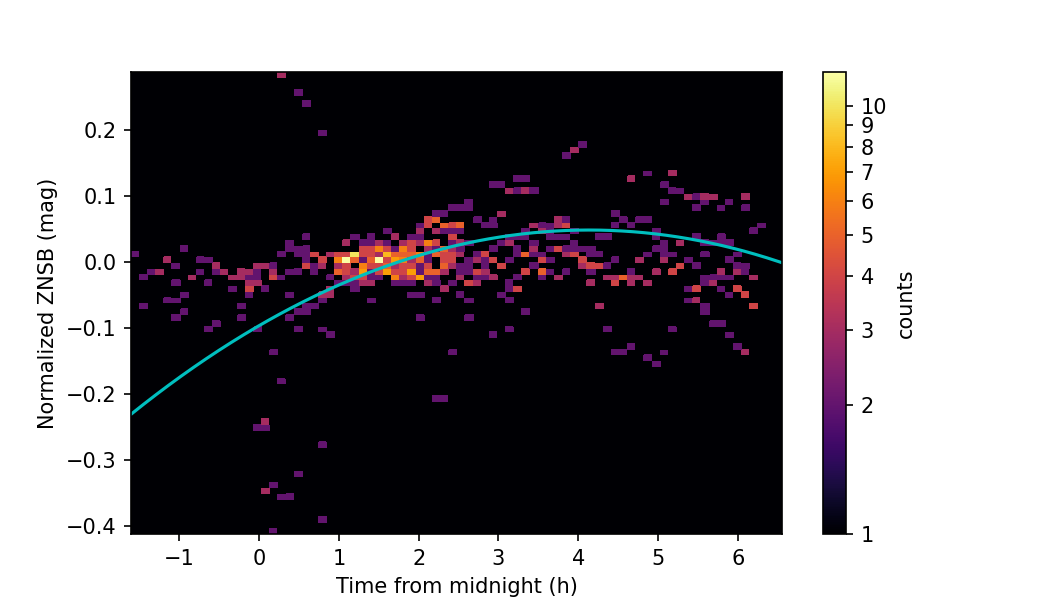
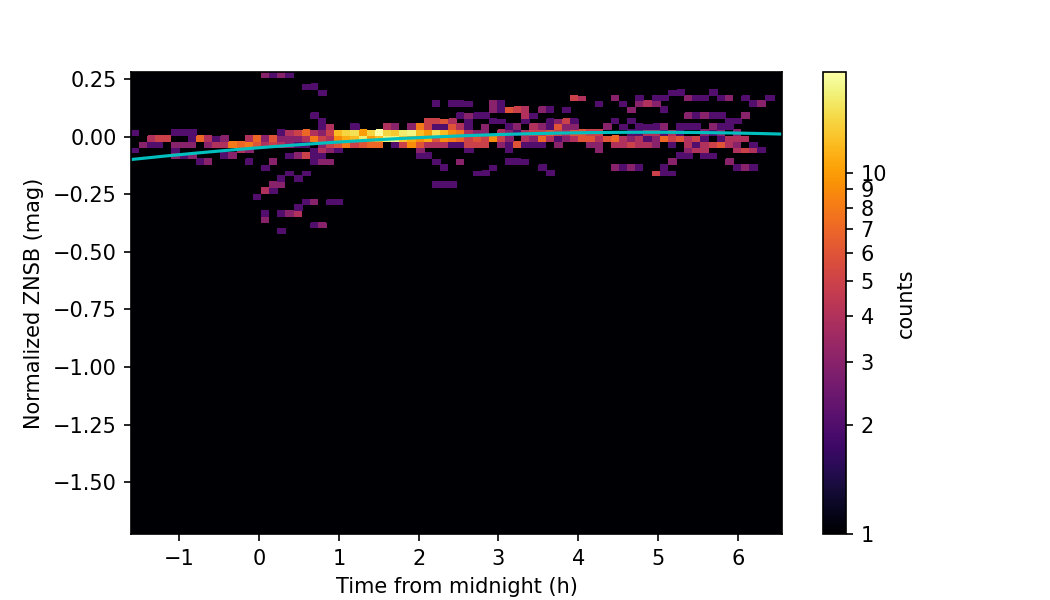
changed AE function to fit with 4 bands

diff --git a/aeronet_cosqm_correlation_santa.py b/aeronet_cosqm_correlation_santa.py
@@ -436,7 +436,7 @@ band = 1
 plt.figure(dpi=150,figsize=(7,4))
 plt.hist2d(hours_float[np.isfinite(c_norm)[:,band]], c_norm[:,band][np.isfinite(c_norm)[:,band]], 80, cmap='inferno')
 plt.hist2d(hours_float[np.isfinite(c_norm)[:,band]], c_norm[:,band][np.isfinite(c_norm)[:,band]], 80, cmap='inferno', norm=LogNorm())
-plt.plot(xs, second_order(xs, fit_params_g[0], fit_params_g[1], fit_params_g[2]), label='second order fit', c='c')
+plt.plot(xs, second_order(xs, fit_params[0, band], fit_params[1, band], fit_params[2, band]), label='second order fit 667nm', c='c')
 plt.xlabel('Time from midnight (h)')
 plt.ylabel('Normalized ZNSB (mag)')
 cbar = plt.colorbar(format='%.0f', label='counts')
@@ -714,39 +714,32 @@ cosqm_aod_b = fit_func1(cosqm_santa_corr[:,2], corr_fitb)
 cosqm_aod_y = fit_func1(cosqm_santa_corr[:,3], corr_fity)
 
 
-#sigma clip on correlated AOD (crazy AOD values from imperfect AOD-ZNSB fit)
-threshold = 0.1
+# sigma clip on correlated AOD (crazy AOD values from imperfect AOD-ZNSB fit)
+threshold = 0.04
 cosqm_aod_r[cosqm_aod_r<threshold] = np.nan
 cosqm_aod_g[cosqm_aod_g<threshold] = np.nan
 cosqm_aod_b[cosqm_aod_b<threshold] = np.nan
 cosqm_aod_y[cosqm_aod_y<threshold] = np.nan
 cosqm_aod_all = np.array((cosqm_aod_r, cosqm_aod_g, cosqm_aod_b, cosqm_aod_y)).T
 
-#plt.figure()
-#plt.title('AOD dusk and dawn values')
-#plt.scatter(np.unique(dt_aod_date), aod_am[:,3], label='aeronet_am', s=15)
-#plt.scatter(np.unique(dt_aod_date), aod_pm[:,3], label='aeronet_pm', s=15)
-#plt.xlabel('days from july 2019')
-#plt.ylabel('AOD')
-#plt.legend()
+# fit AE for each 4 points cosqm measurement
+def FitAe(wl,alpha):
+    return wl**-alpha
 
+def fit_except(data_array):                         # Some cosqm aod values do not converge while fitting
+    try: 
+        return curve_fit(FitAe, cosqm_bands, data_array)[0]
+    except RuntimeError:
+        print(f"Error - curve_fit failed: cosqm aod values {data_array}")
+        return np.array((None), dtype=object)
 
-# sliding_window for AE on 15min interval
-def ae_slide_window(array, window_size):
-    da = np.copy(array)
+ae_fit_params = np.zeros((cosqm_aod_all.shape[0]))
+ae_fit_params[:] = np.nan
+cosqm_nonnans = np.where(~np.isnan(cosqm_aod_all).any(axis=1))[0]
+ae_fit_params[cosqm_nonnans] = np.vstack([fit_except(cosqm_aods) for cosqm_aods in cosqm_aod_all[cosqm_nonnans]])[:,0]
+ae_fit_succeed = ae_fit_params != None
 
-
-
-
-#Correlation plots for the 4 color bands
-
-#xs = np.arange(np.nanmin(cosqm_am),np.nanmax(cosqm_pm),0.001)
-xs = np.arange(15,24,0.0001)
-cosqm_santa_angstrom = angstrom_from_aod(cosqm_aod_all, cosqm_bands, 0, 2)
-
-c1='#1f77b4'
-c2='#ff7f0e'
-
+cosqm_ae = np.array([fit1 for fit1 in ae_fit_params[ae_fit_succeed]])
 
 
 #single fit function: correlation
@@ -783,8 +776,6 @@ ax[0, 0].legend(loc='lower left', prop={'size': 8})
 plt.savefig('figures/correlation/santa/correlation_single_fit_santa.png')
 
 
-
-
 #single fit function: continuity 2020-02-21
 msize=0.5
 fig, ax = plt.subplots(2,2, sharex=True, sharey=True, dpi=150, figsize=(10,6))
@@ -815,14 +806,13 @@ ax[1, 1].text(0.5,0.1, f'{cosqm_bands[3]} nm', horizontalalignment='center', ver
 fig, ax = plt.subplots(1,1, dpi=150, figsize=(10,6))
 #plt.setp(ax, xticks=[pd.Timestamp('2020-02-22'), pd.Timestamp('2020-02-27'), pd.Timestamp('2020-03-03')], xticklabels=['2020-02-22', '2020-02-27', '2020-03-03'])
 ax.scatter(dt_aod, data_angstrom, s=0.5, label='CE318-T derived 440-679nm AE')
-ax.scatter(dt_santa_corr, cosqm_santa_angstrom, s=0.5, label='CoSQM derived 503-667nm AE')
+ax.scatter(dt_santa_corr, cosqm_ae, s=0.5, label=f'CoSQM derived fitted AE')
 ax.set_xlim(pd.Timestamp('2020-02-20'), pd.Timestamp('2020-03-04'))
-ax.set_ylim(-1.34,3.73)
+#ax.set_ylim(-1.34,3.73)
 ax.set_ylabel('503-667nm Angstrom exponent')
 ax.legend()
 #ax.set_yscale('log')
 #plt.savefig('figures/continuity/continuity_angstrom_20200220.png')
-
 
 
 #single fit function: continuity 2020-05-21
@@ -855,7 +845,7 @@ plt.savefig('figures/continuity/continuity_aod_20200521.png')
 fig, ax = plt.subplots(1,1, dpi=150, figsize=(10,6))
 plt.setp(ax, xticks=[pd.Timestamp('2020-05-22'), pd.Timestamp('2020-05-25'), pd.Timestamp('2020-05-28')], xticklabels=['2020-05-22', '2020-05-25', '2020-05-28'])
 ax.scatter(dt_aod, data_angstrom, s=0.5, label='CE318-T derived 440-679nm AE')
-ax.scatter(dt_santa_corr, cosqm_santa_angstrom, s=0.5, label='CoSQM derived 503-667nm AE')
+ax.scatter(dt_santa_corr, cosqm_ae, s=0.5, label='CoSQM derived fitted AE')
 ax.set_xlim(pd.Timestamp('2020-05-21'), pd.Timestamp('2020-05-29'))
 ax.set_ylim(-1.34,3.73)
 ax.set_ylabel('503-667nm Angstrom exponent')
